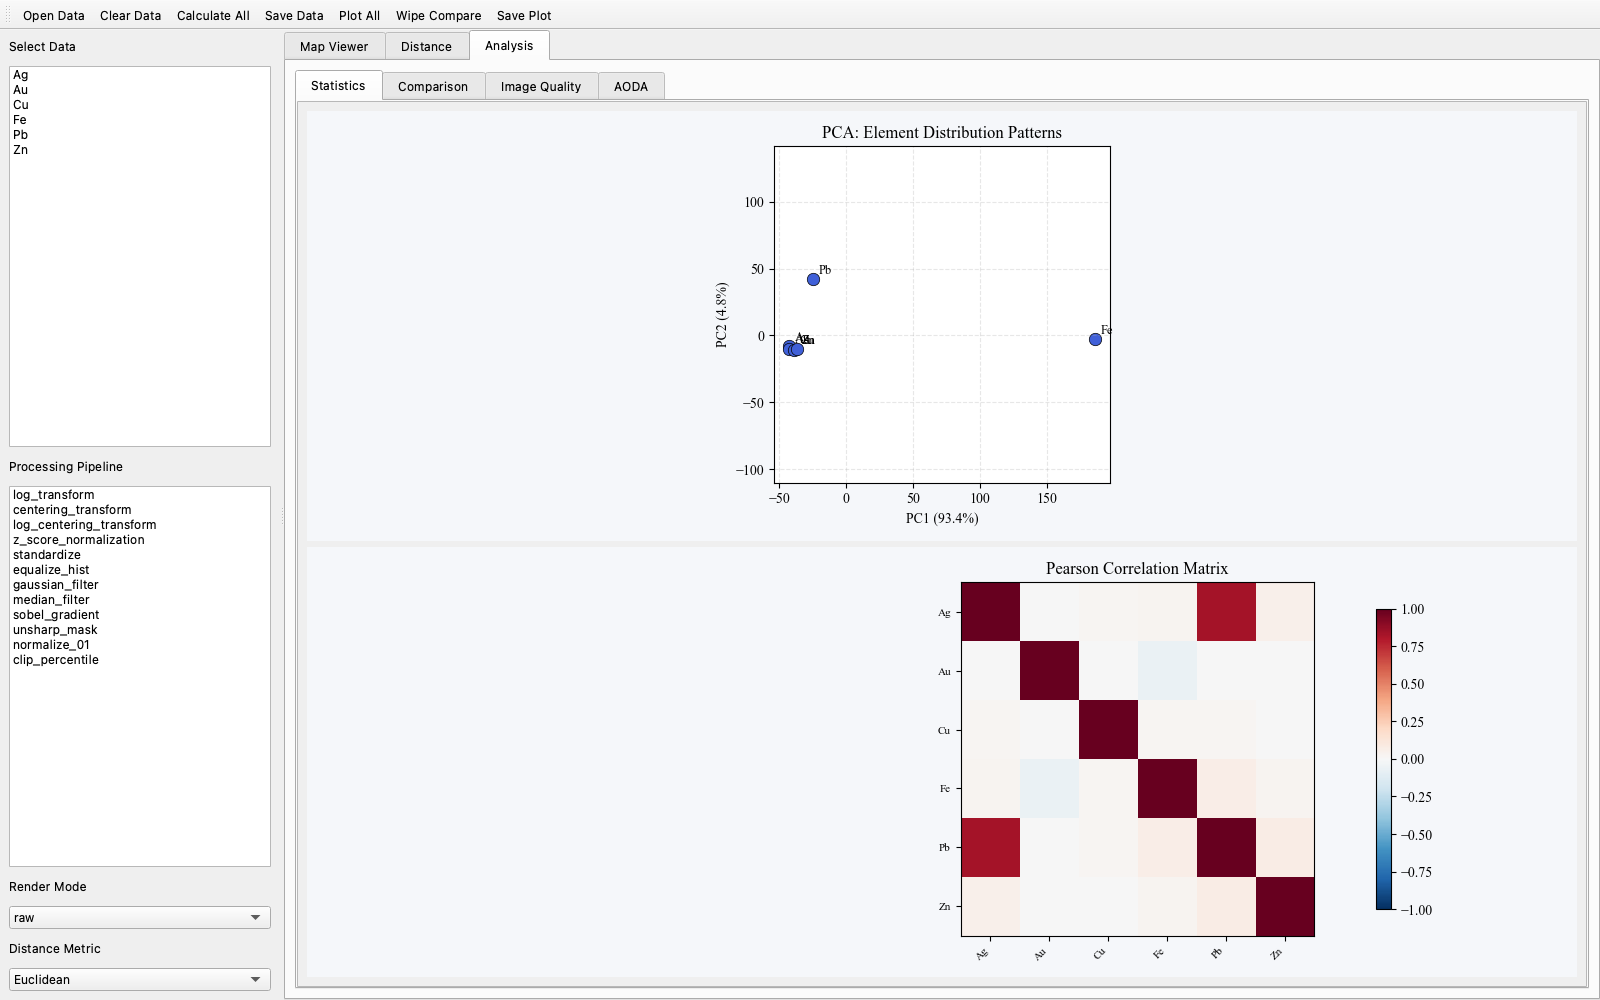
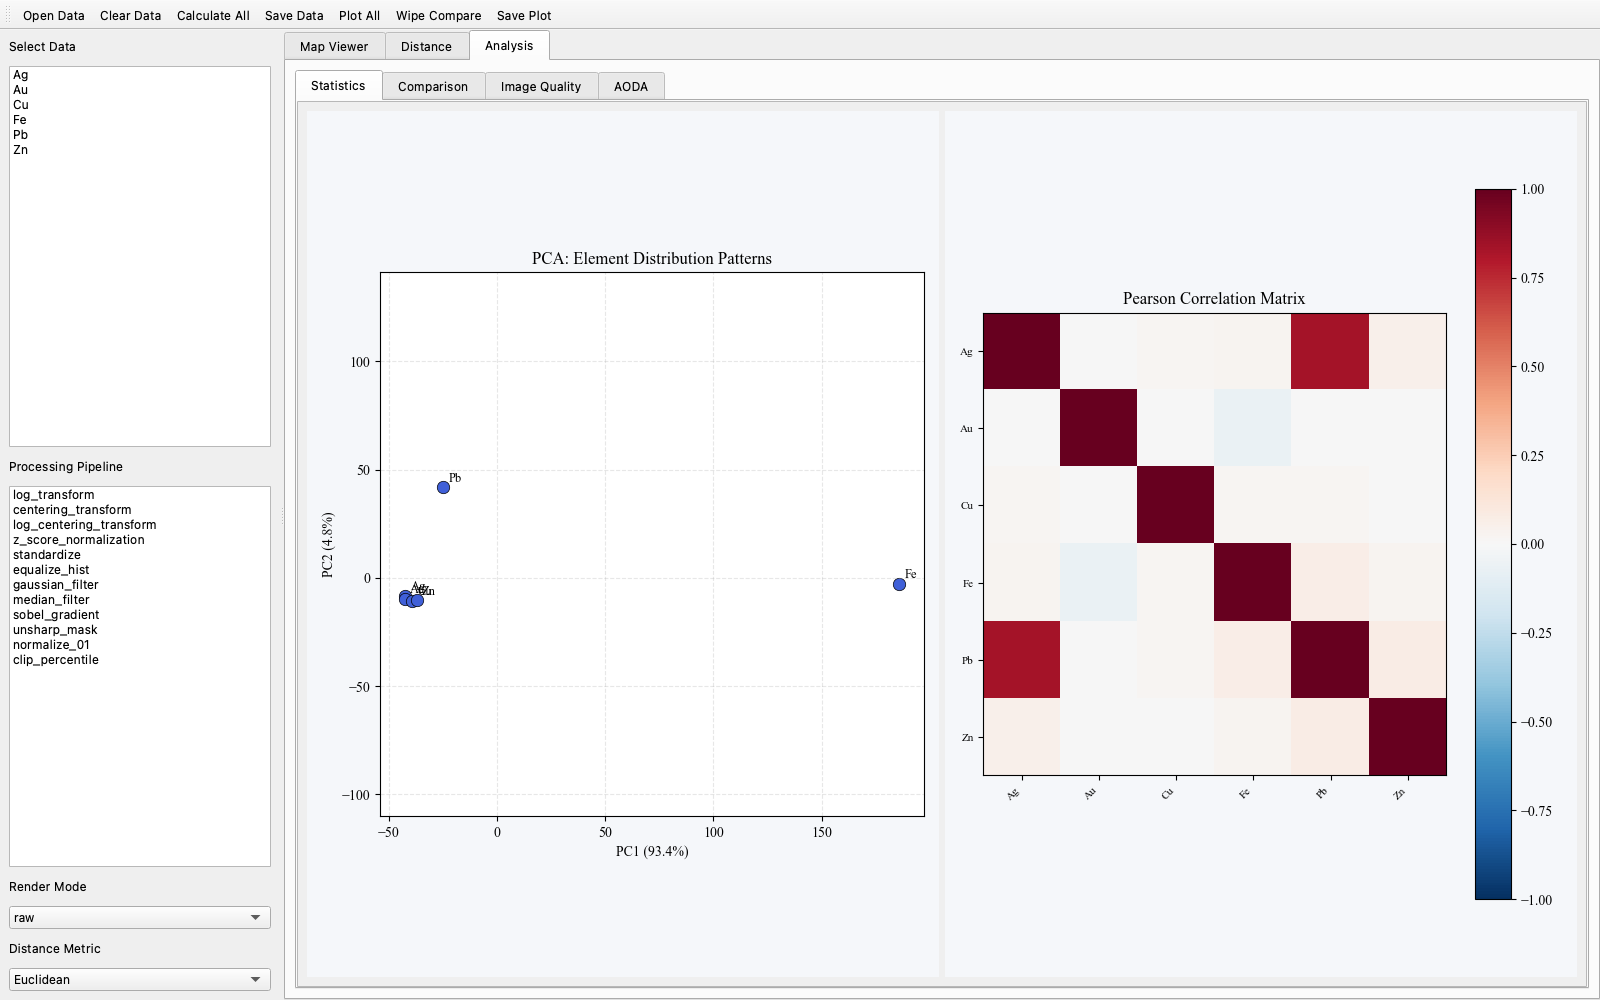
v1.3.0: stats pane two squares side-by-side (horizontal)

diff --git a/cpsvisualizer/src/cpsvisualizer/app.py b/cpsvisualizer/src/cpsvisualizer/app.py
@@ -535,15 +535,14 @@ class CPSVisualizer(QMainWindow):
 
     def _build_stats_pane(self, parent):
         sc, inner = self._scroll_pane()
-        v = QVBoxLayout(inner)
+        h = QHBoxLayout(inner)
         self._pca_canvas = FigureCanvas(Figure(figsize=(6, 6), dpi=self.dpi))
         self._corr_canvas = FigureCanvas(Figure(figsize=(6, 6), dpi=self.dpi))
         for c in (self._pca_canvas, self._corr_canvas):
             c.setSizePolicy(QSizePolicy.Expanding, QSizePolicy.Expanding)
-            c.setMinimumHeight(350)
-        v.addWidget(self._pca_canvas)
-        v.addWidget(self._corr_canvas)
-        v.addStretch(1)
+            c.setMinimumHeight(400)
+        h.addWidget(self._pca_canvas)
+        h.addWidget(self._corr_canvas)
         parent.addTab(sc, 'Statistics')
 
     def _build_comparison_pane(self, parent):

diff --git a/cpsvisualizer/src/setup.py b/cpsvisualizer/src/setup.py
@@ -15,7 +15,7 @@ except Exception:
 
 setup(
     name='cpsvisualizer',
-    version='1.2.9',
+    version='1.3.0',
     description='CPS-Visualizer: Visualization, similarity measurement, and statistical analysis of LA-ICP-MS surface scan data.',
     long_description=README,
     long_description_content_type='text/markdown',
